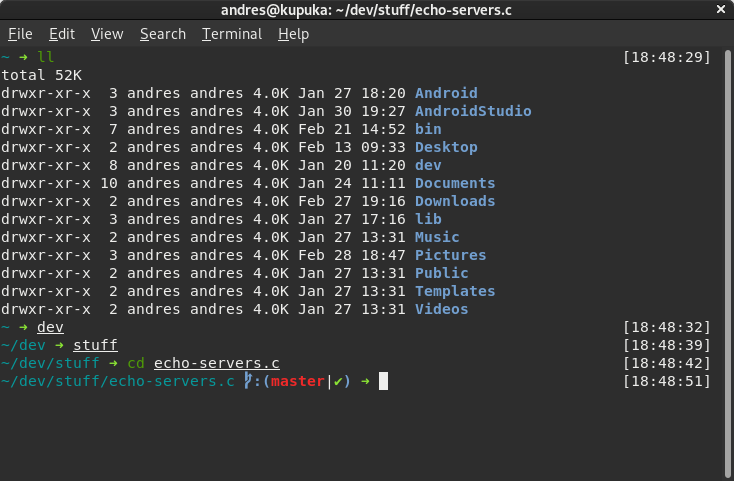
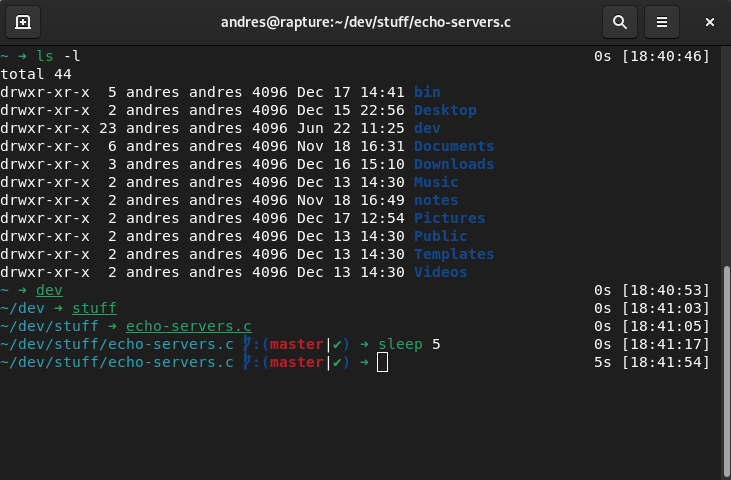
Adding last command timer

diff --git a/README.md b/README.md
@@ -4,8 +4,9 @@ A minimalist ZSH theme with git support
 
 ## Compatibility
 
-You will need to have activated the `git-prompt` plugin (which requires python).
-This theme requires the [Powerline Fonts](https://github.com/powerline/fonts) to render properly.
+This theme requires:
+- [git-prompt](https://github.com/ohmyzsh/ohmyzsh/tree/master/plugins/git-prompt) plugin (which requires python).
+- [Powerline Fonts](https://github.com/powerline/fonts).
 
 ## What does it show?
 
@@ -15,5 +16,6 @@ This theme requires the [Powerline Fonts](https://github.com/powerline/fonts) to
   - Dirty working directory (✘)
 - Working directory
 - Time at which control was returned to the user
+- Last command duration
 
 ![Screenshot](screenshot.png)
